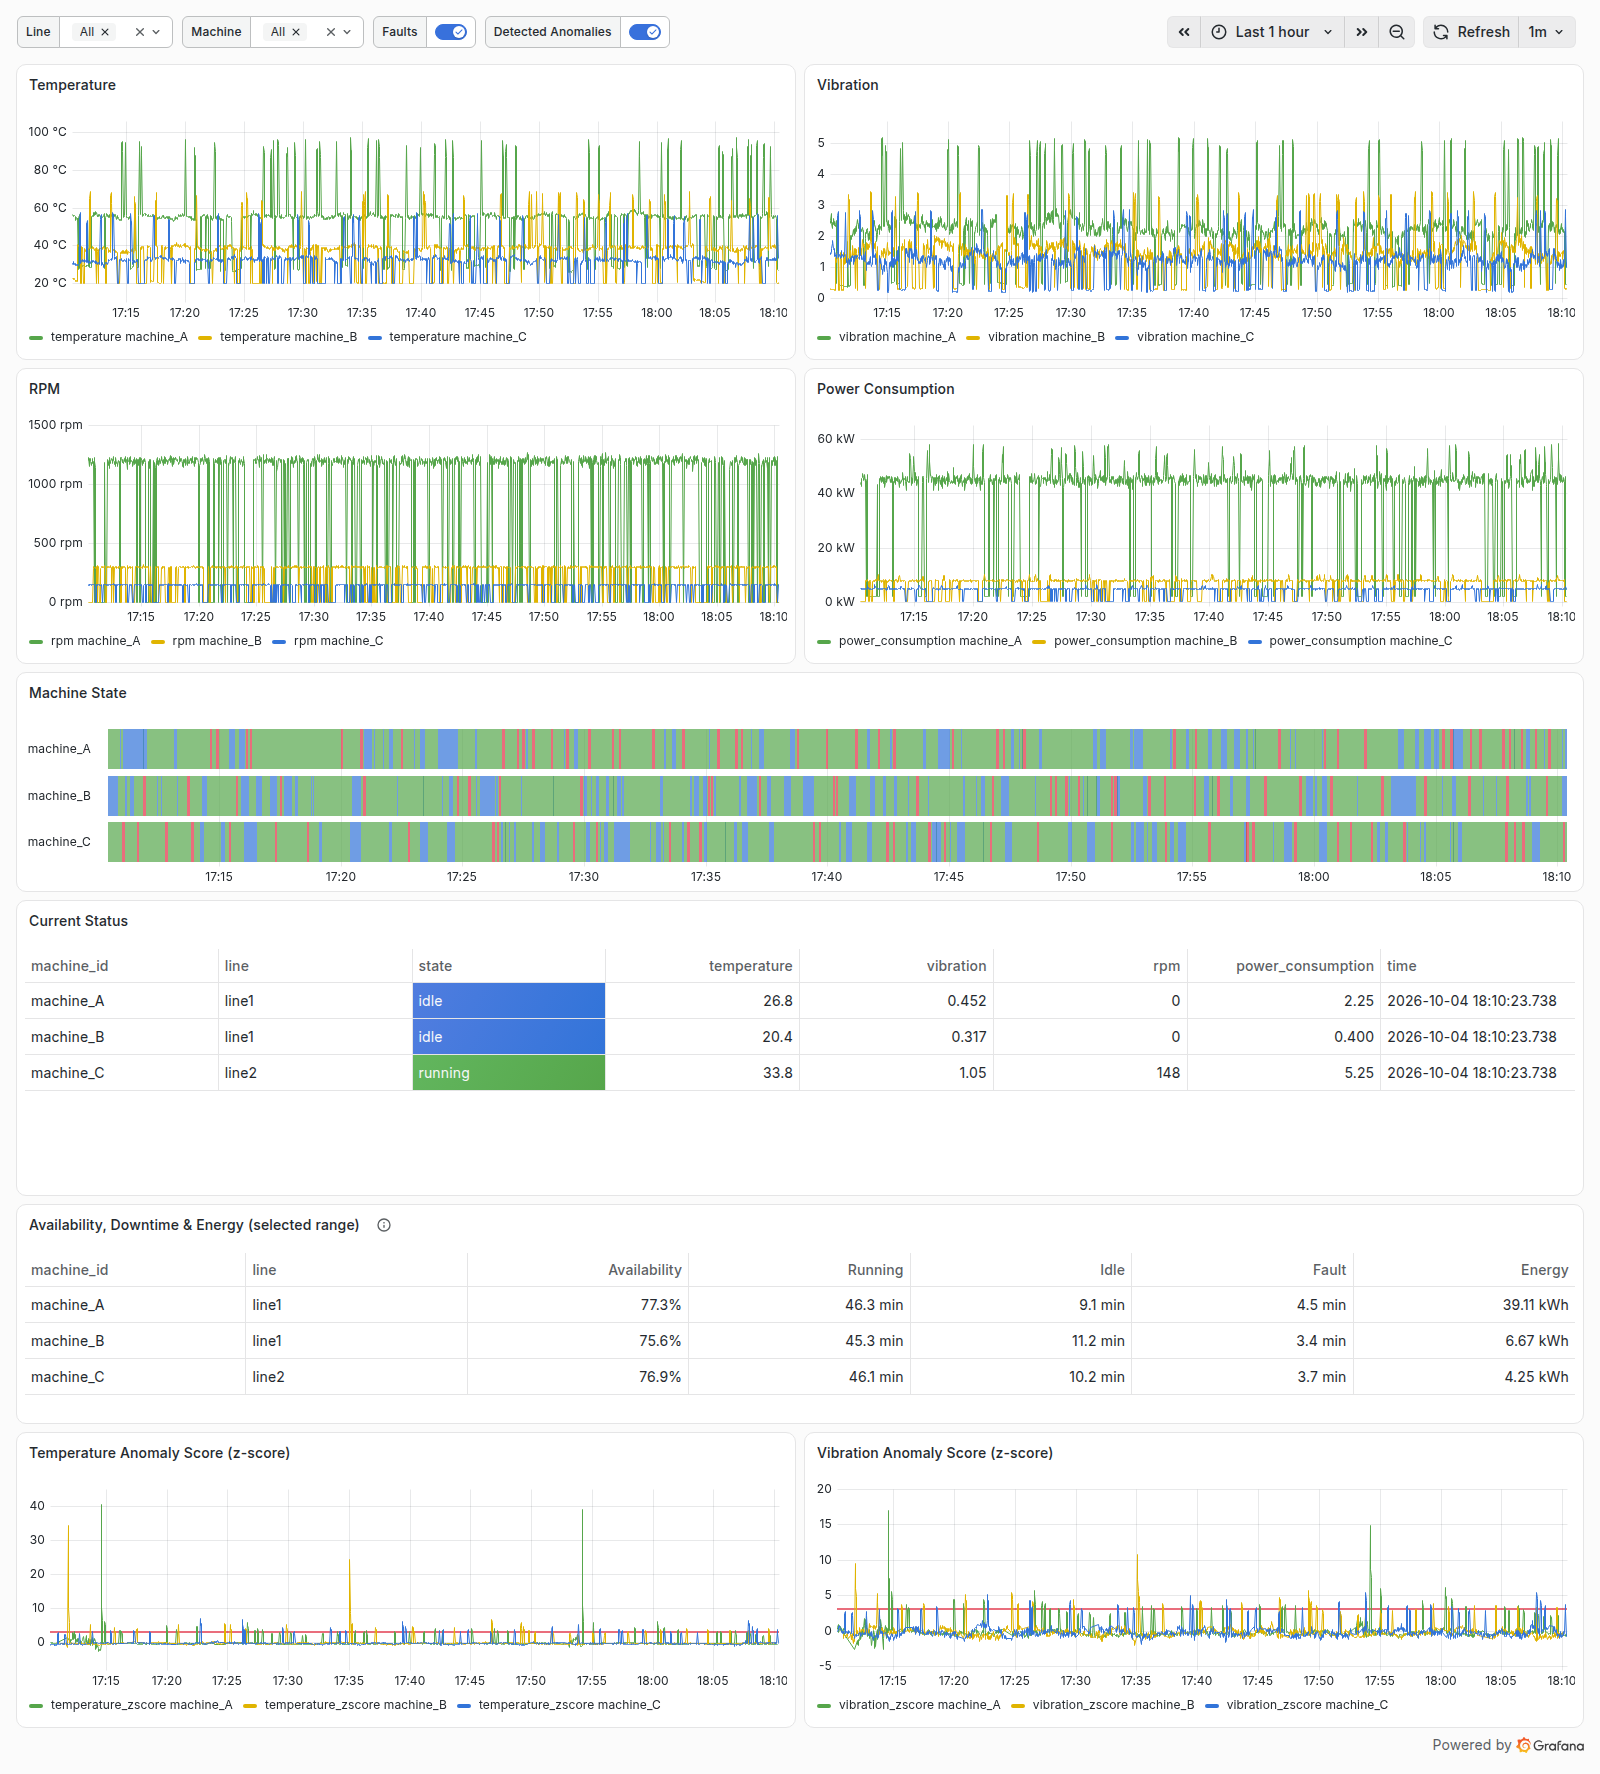
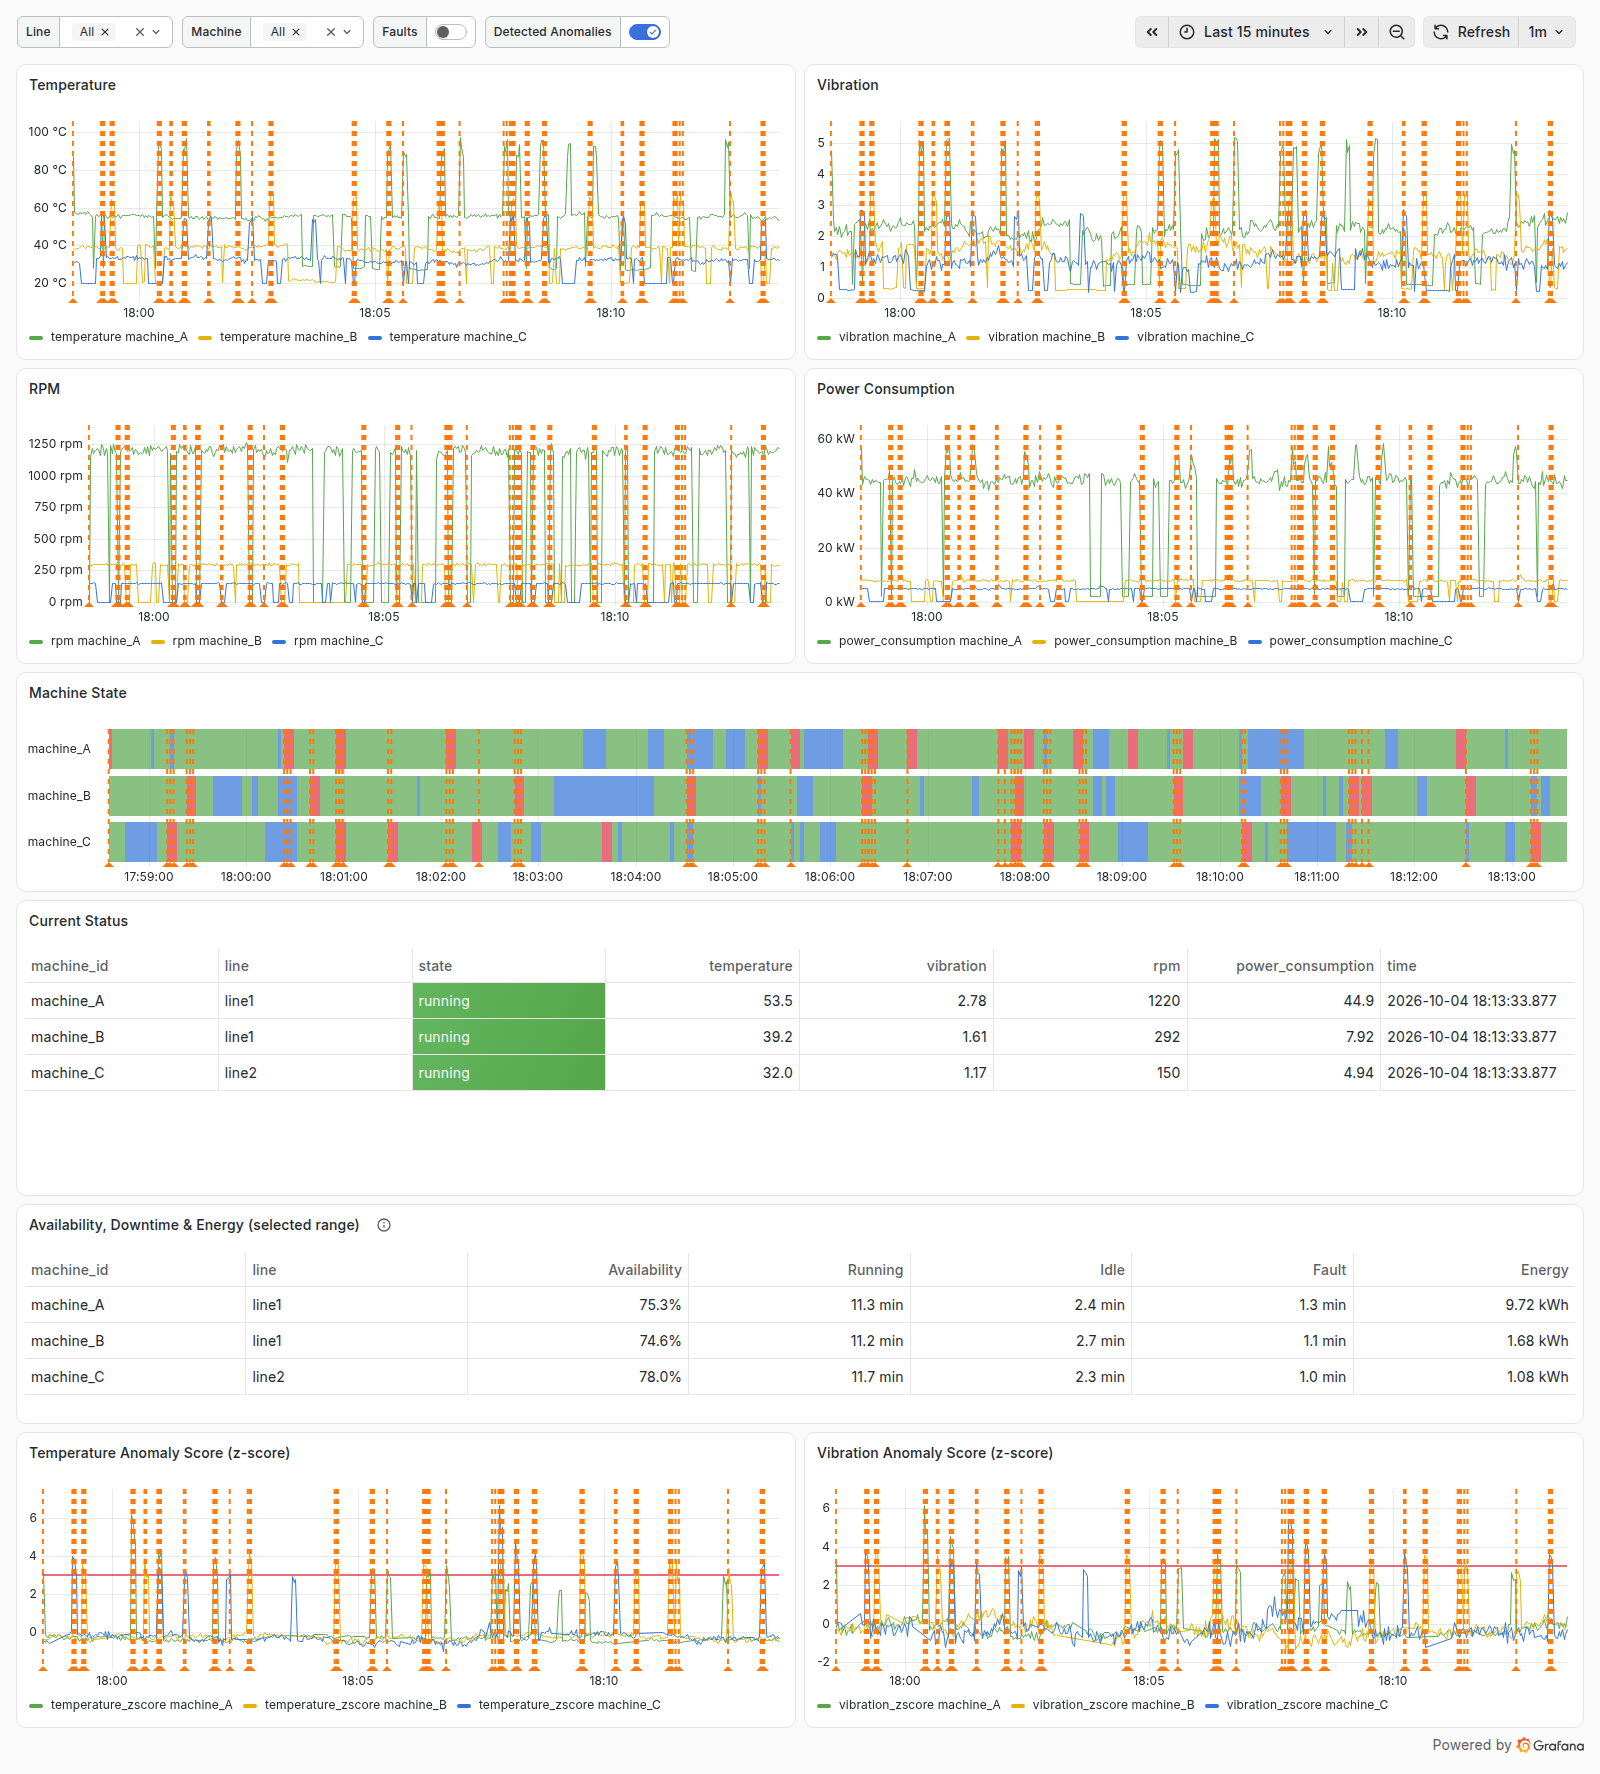
Fix dashboard annotations, run SQL checks in CI.

diff --git a/README.md b/README.md
@@ -7,7 +7,7 @@ service ingests it into TimescaleDB, and Grafana shows live trends,
 availability / downtime / energy per machine, and statistical anomaly
 detection with alerting. Every piece runs as its own Docker service.
 
-![Grafana "Factory Overview" dashboard: one hour of telemetry for three machines](docs/images/dashboard.png)
+![Grafana "Factory Overview" dashboard: telemetry, machine states, KPIs and detected anomalies for three machines](docs/images/dashboard.png)
 
 ## Architecture
 ```mermaid
@@ -67,6 +67,6 @@ To follow logs for a single service: `docker compose logs -f simulator` (or
 
 ## Tests
 CI runs clippy and the unit tests for the Rust service, ruff and pytest for
-the simulator, and validates the compose file. The SQL functions have
-self-checks in `storage/tests/`, run against the database (see
-`storage/README.md`).
+the simulator, validates the compose file, and runs the SQL self-checks in
+`storage/tests/` against a fresh TimescaleDB with the init scripts applied
+(see `storage/README.md`).
